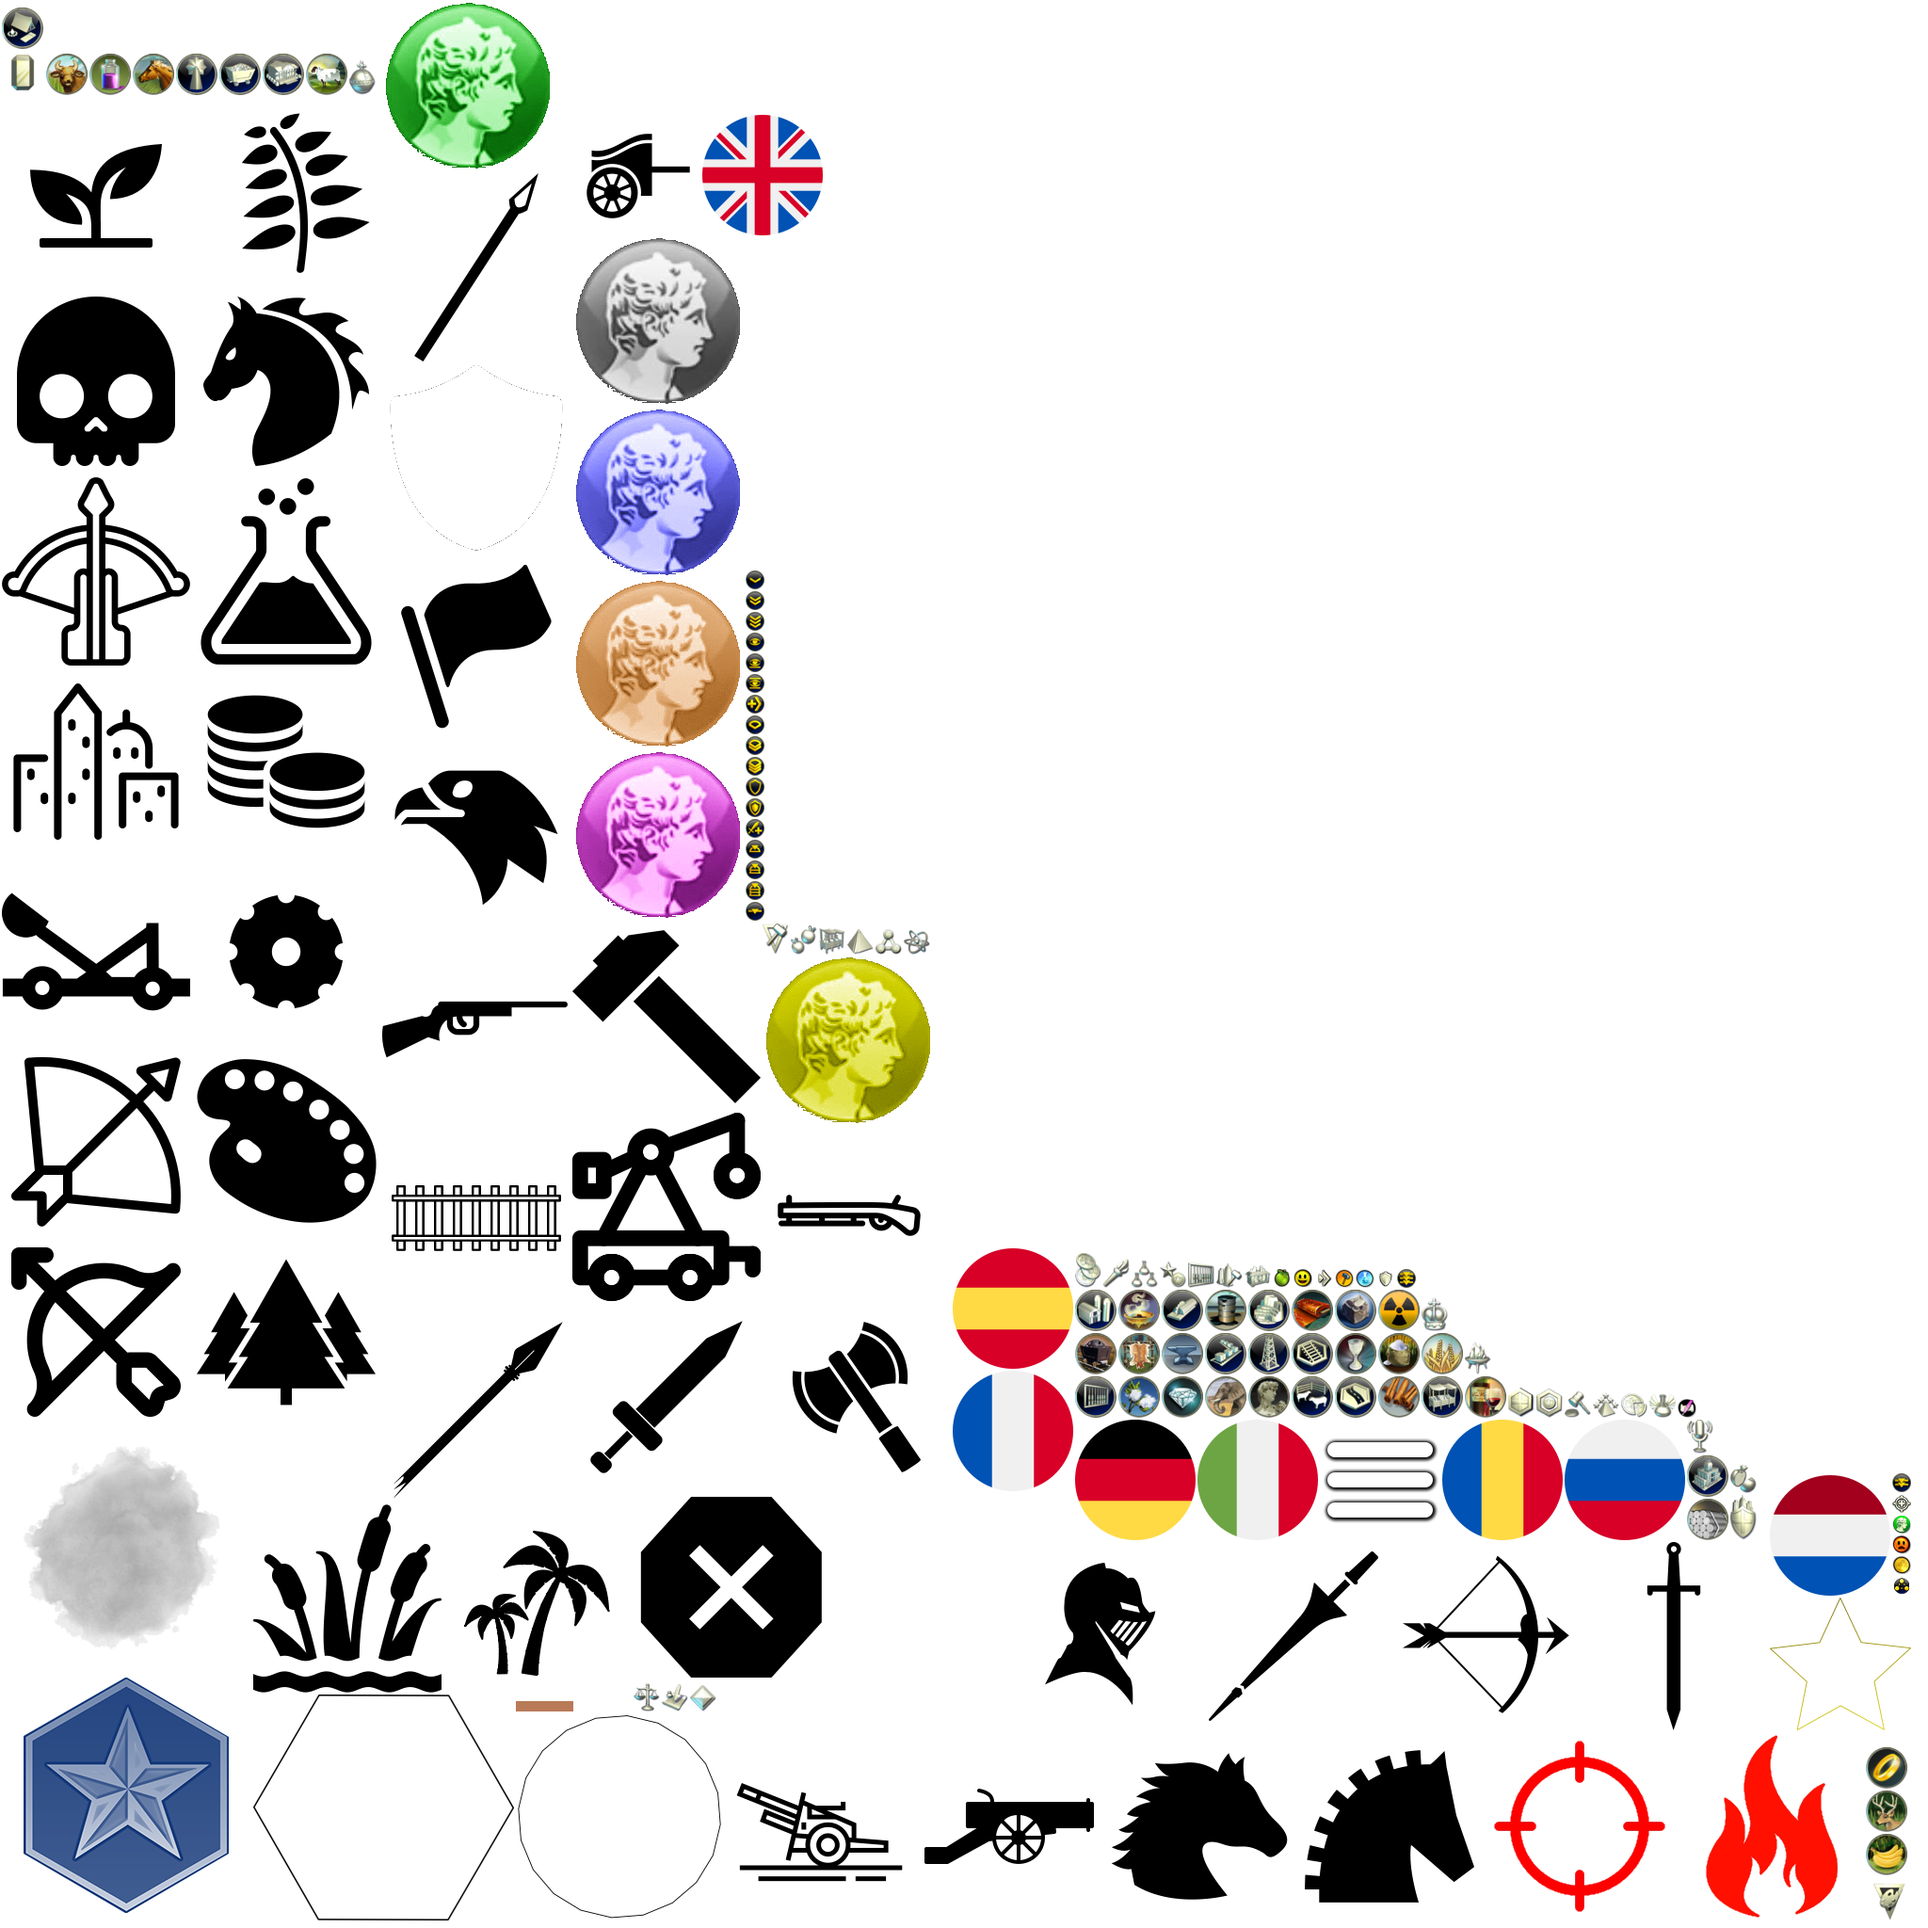
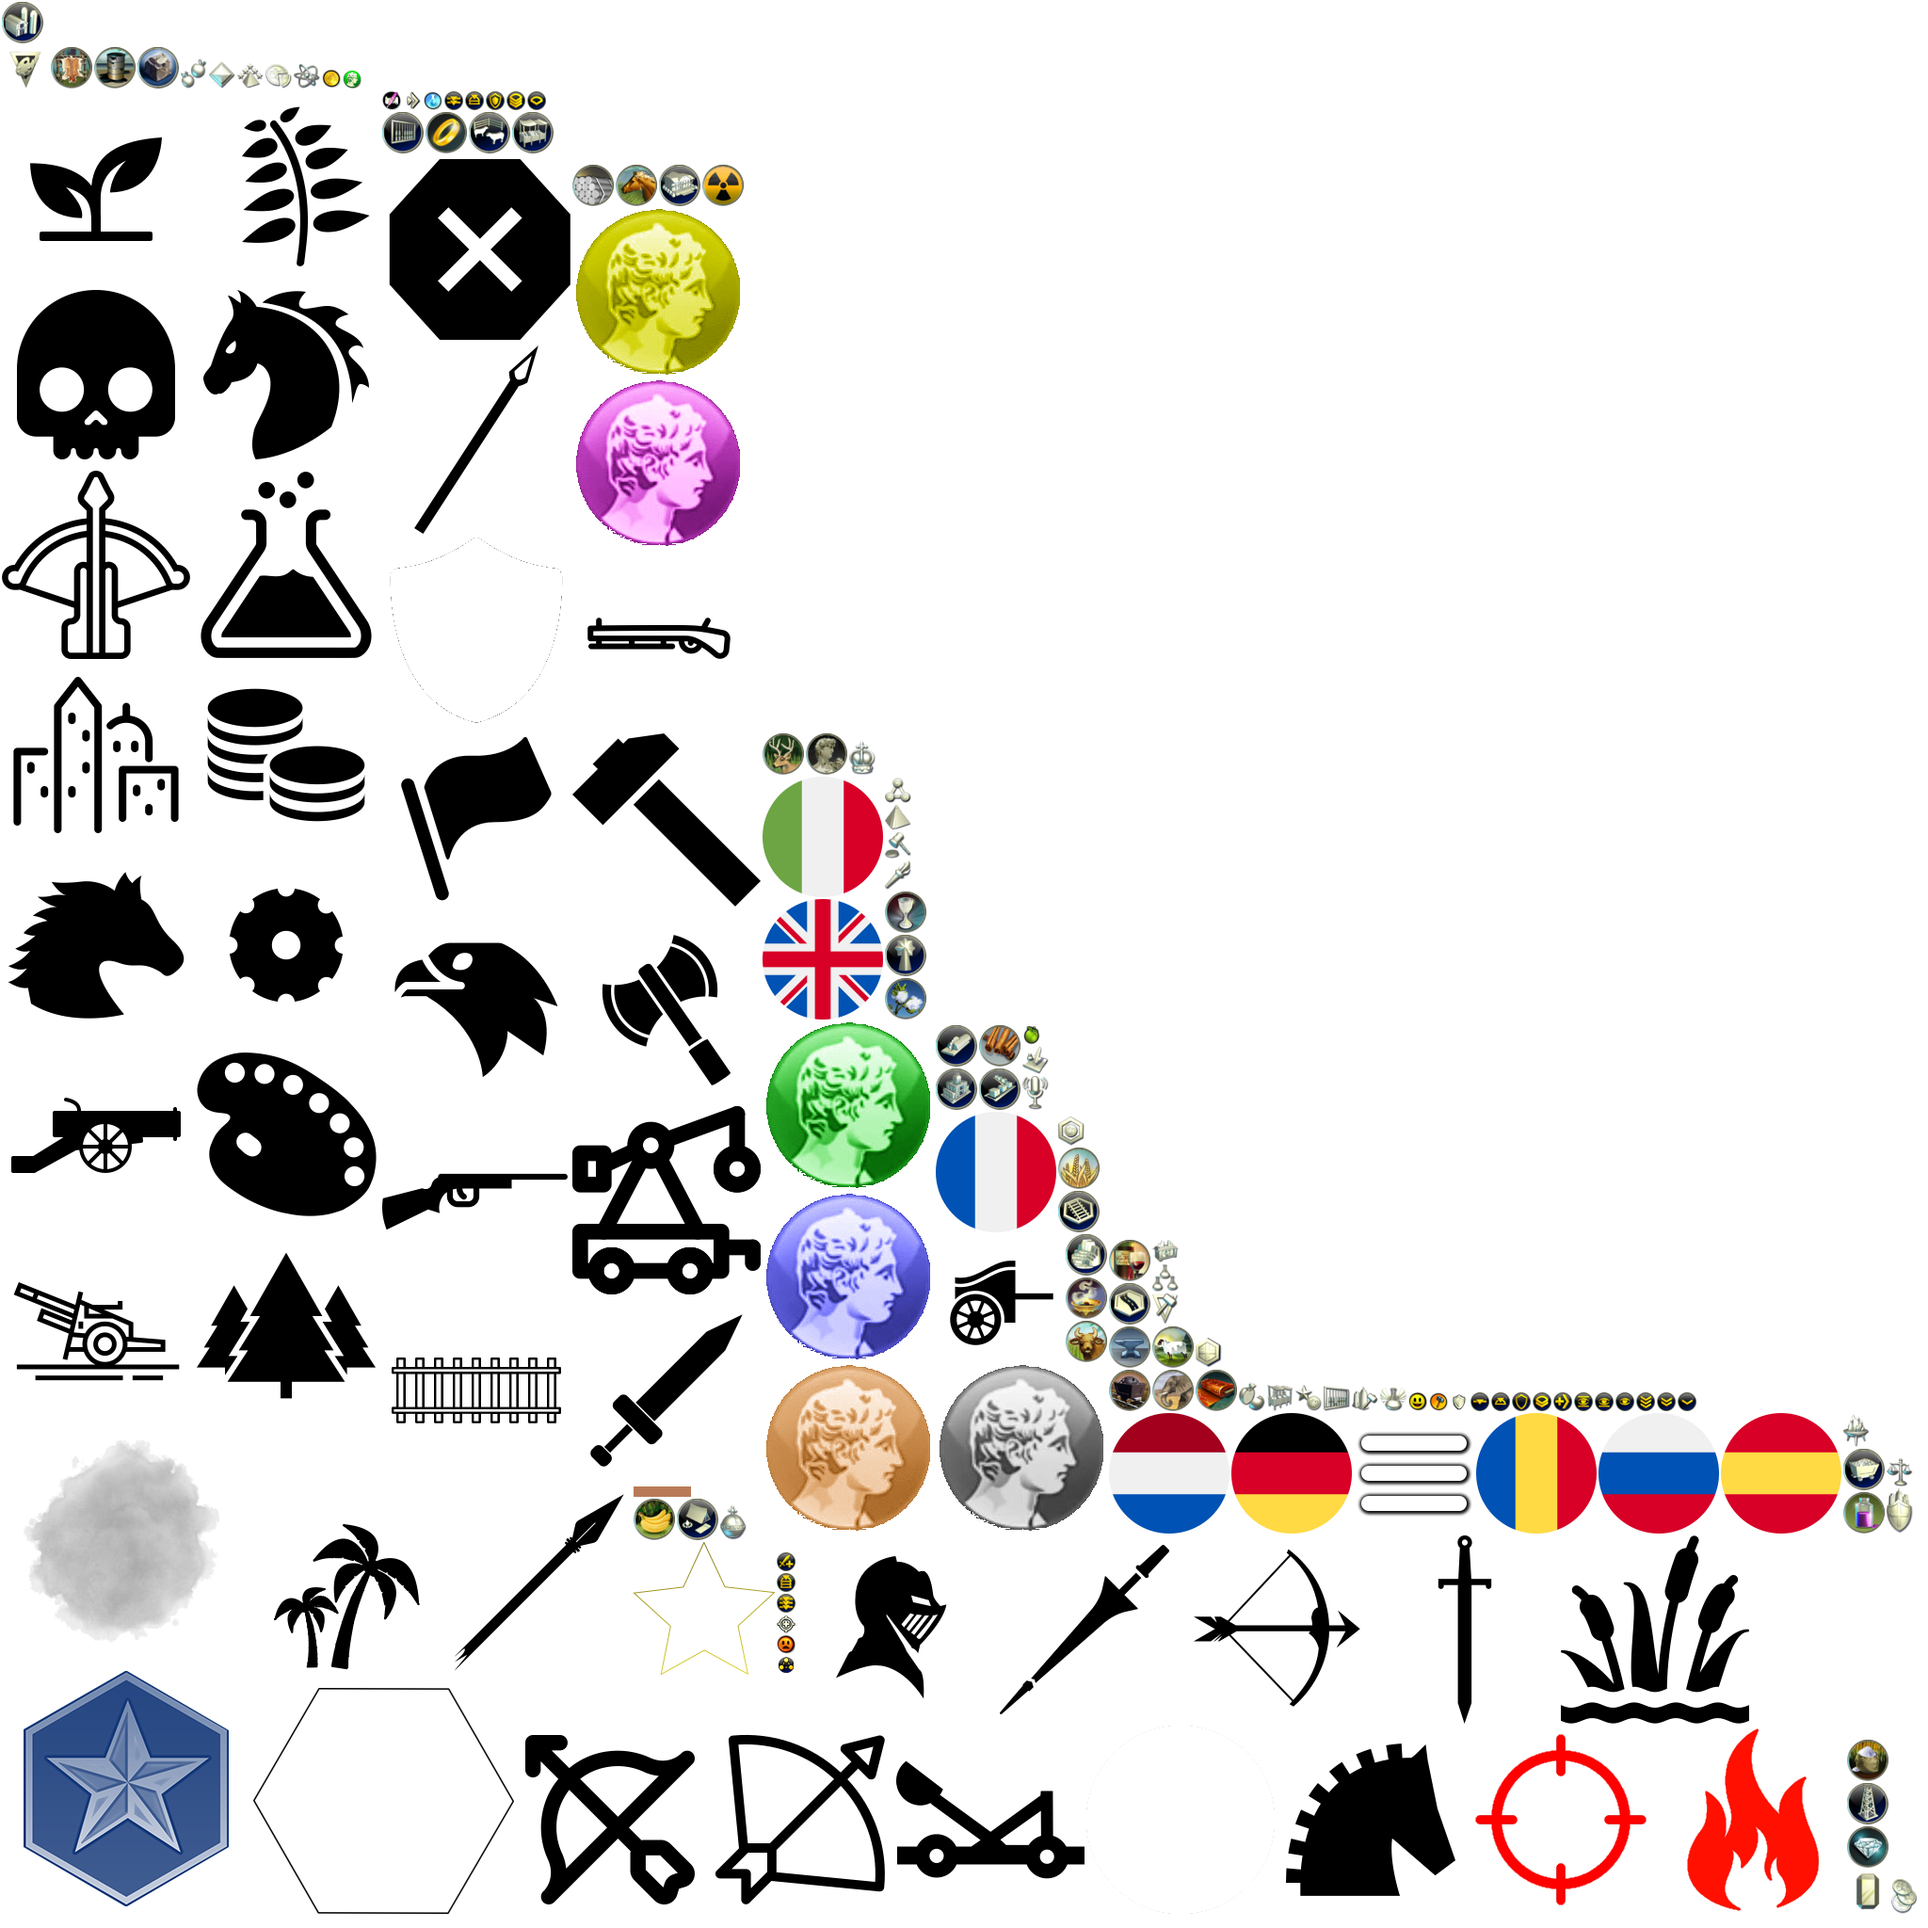
Better circle image, images no longer look all pixellated

Changed region(s): [[0.0, 0.0, 1.0, 1.0], [0.0, 0.8438, 0.125, 1.0]]

diff --git a/desktop/src/com/unciv/game/desktop/DesktopLauncher.java b/desktop/src/com/unciv/game/desktop/DesktopLauncher.java
@@ -2,6 +2,7 @@ package com.unciv.game.desktop;
 
 import com.badlogic.gdx.backends.lwjgl.LwjglApplication;
 import com.badlogic.gdx.backends.lwjgl.LwjglApplicationConfiguration;
+import com.badlogic.gdx.graphics.Texture;
 import com.badlogic.gdx.tools.texturepacker.TexturePacker;
 import com.unciv.UnCivGame;
 
@@ -12,6 +13,10 @@ class DesktopLauncher {
 		settings.maxWidth = 2048;
 		settings.maxHeight = 2048;
 		settings.combineSubdirectories=true;
+
+		// This is so they don't look all pixelated
+		settings.filterMag = Texture.TextureFilter.MipMapLinearLinear;
+		settings.filterMin =  Texture.TextureFilter.MipMapLinearLinear;
 		TexturePacker.process(settings, "images", "images", "game");
 
 		LwjglApplicationConfiguration config = new LwjglApplicationConfiguration();
